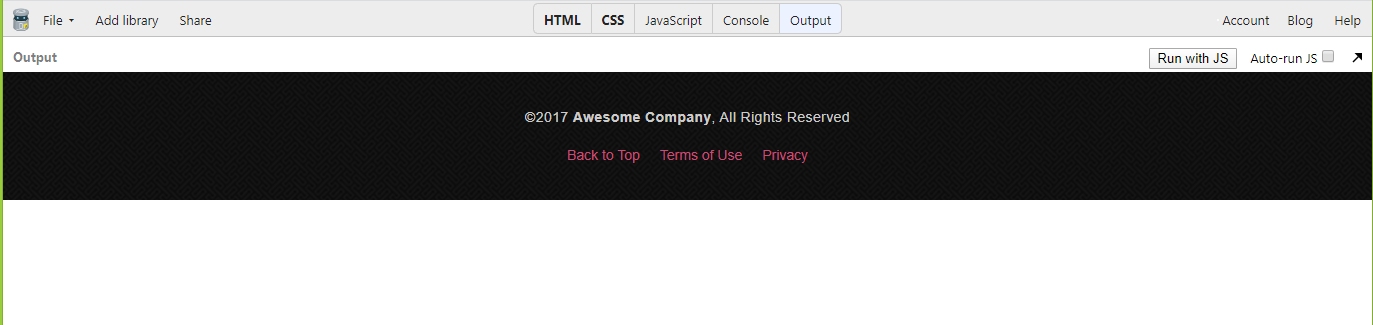
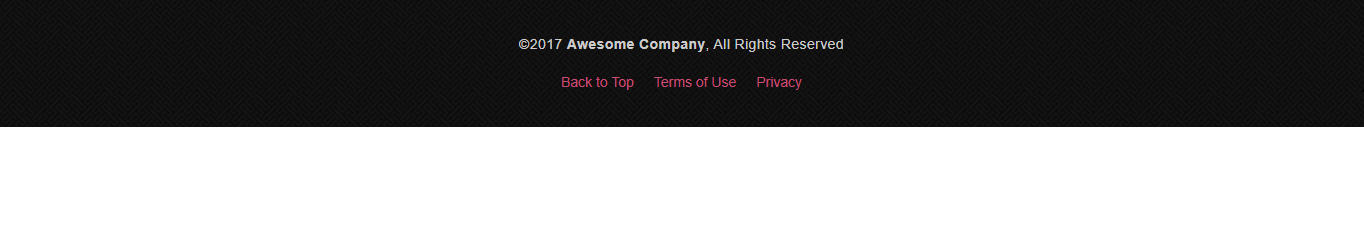
sf

diff --git a/footers/simple-footers/readme.md b/footers/simple-footers/readme.md
@@ -1,9 +1,14 @@
 <!DOCTYPE html>
 <html>
 <head>
+<style>
+img {
+  box-shadow: 2px 2px 2px black;
+}
+</style>
 </head>
 <body>
   <h1>Simple-footer</h1>
-  <img style="box-shadow:2px 2px 2px black;" src="https://github.com/ttymea/common-components/blob/master/footers/simple-footers/simple-footer.PNG">
+  <img src="https://github.com/ttymea/common-components/blob/master/footers/simple-footers/simple-footer.PNG">
 </body>
 </html>
